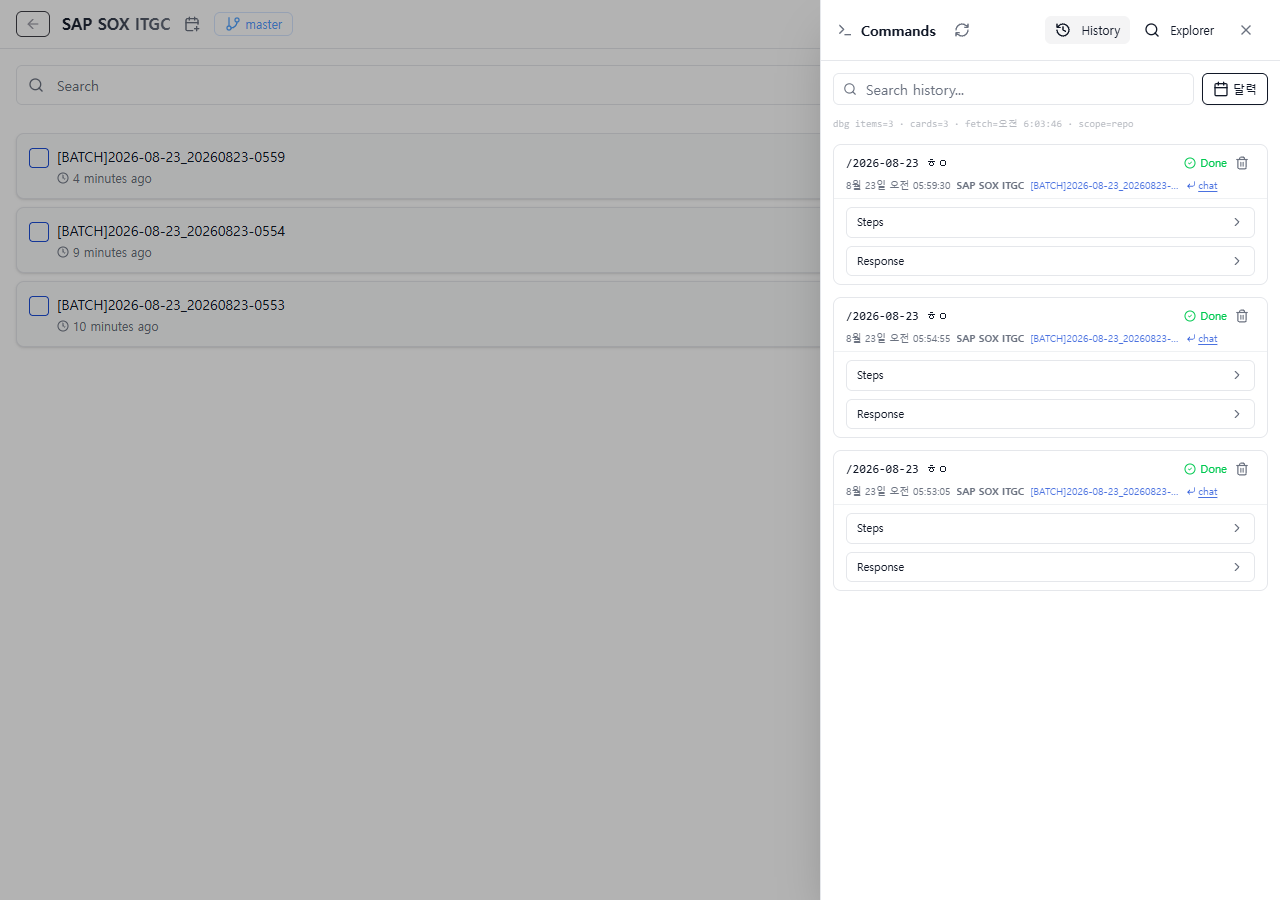
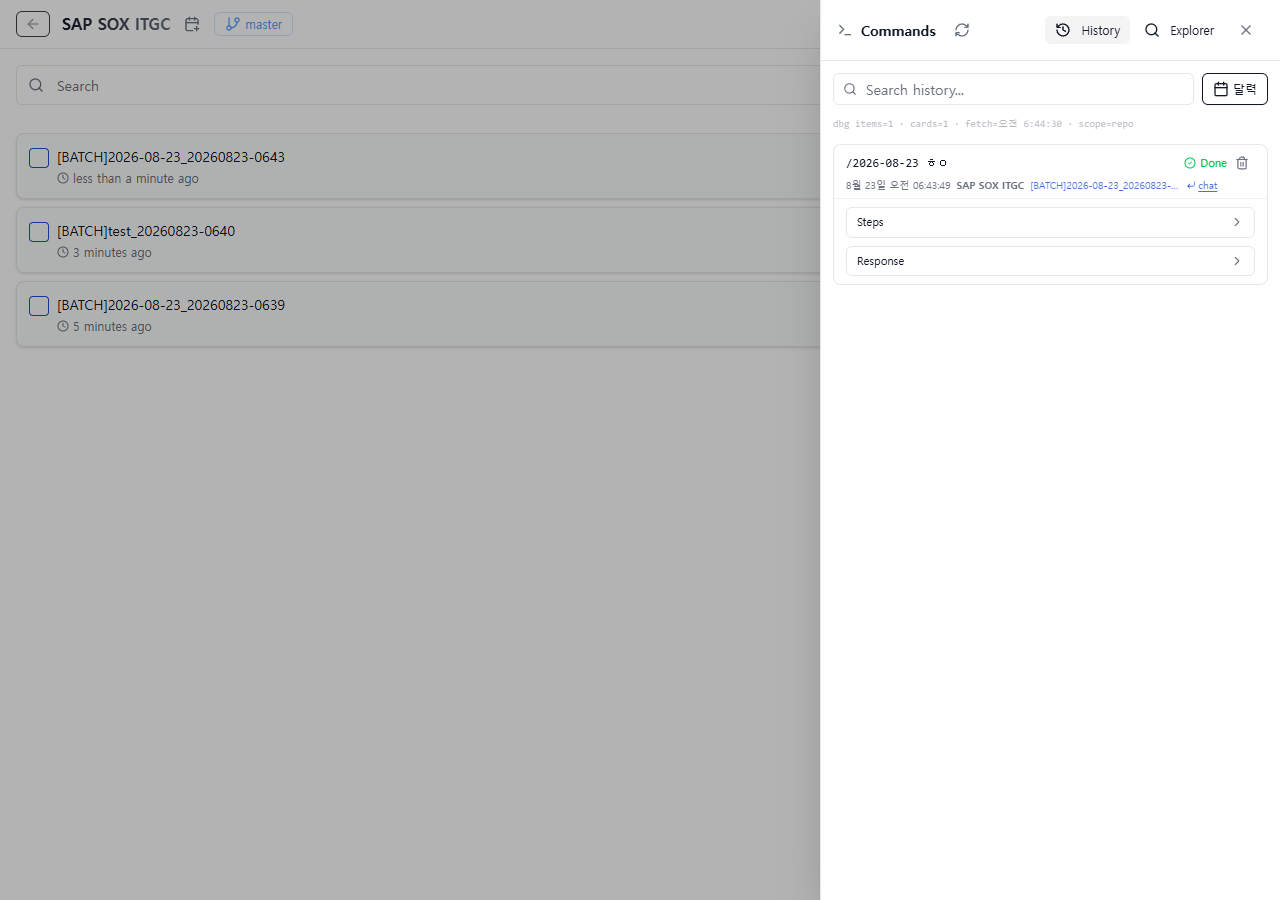
command history cards render immediately from view data like calendar, message queries fail fast without retry spam, status precedence fixed to file record

diff --git a/frontend/src/components/command/CommandsPanel.tsx b/frontend/src/components/command/CommandsPanel.tsx
@@ -1027,14 +1027,16 @@ export function CommandsPanel({ open, onClose, opcodeUrl, sessionID, directory, 
       },
       enabled: open && !!opcodeUrl && !!sessionId,
       staleTime: 30_000,
+      // 존재하지 않는 세션(외부 기록 등)은 500 스팸 없이 조용히 건너뛴다.
+      retry: false,
     })),
   })
 
-  const getMessagesFor = useCallback((sessionId: string, directory?: string): MessageWithParts[] | undefined => {
+  const getMessageQuery = useCallback((sessionId: string, directory?: string) => {
     const idx = sessionTargets.findIndex(
       (t) => t.sessionId === sessionId && (t.directory ?? '') === (directory ?? ''),
     )
-    return idx >= 0 ? (messageQueries[idx]?.data as MessageWithParts[] | undefined) : undefined
+    return idx >= 0 ? messageQueries[idx] : undefined
   }, [sessionTargets, messageQueries])
 
   const sessionMeta = useMemo(() => {
@@ -1061,7 +1063,10 @@ export function CommandsPanel({ open, onClose, opcodeUrl, sessionID, directory, 
     const ordered = [...(runList ?? [])].sort((a, b) => a.startedAt - b.startedAt)
     return ordered
       .map((run) => {
-        const msgs = getMessagesFor(run.sessionID, run.sessionMeta?.directory || run.directory)
+        const mq = getMessageQuery(run.sessionID, run.sessionMeta?.directory || run.directory)
+        const msgs = Array.isArray(mq?.data) ? (mq.data as MessageWithParts[]) : undefined
+        // 조회 실패(삭제된 세션 등)도 '로드 완료(빈 값)'로 취급해 스피너 무한 방지
+        const messagesLoaded = Array.isArray(msgs) || mq?.status === 'error'
         const meta = commands.find((c) => c.name === run.name)
         const segmented = segmentRun(msgs ?? [], run, meta?.oneshot)
         return {
@@ -1071,7 +1076,7 @@ export function CommandsPanel({ open, onClose, opcodeUrl, sessionID, directory, 
           startedAt: run.startedAt,
           sessionID: run.sessionID,
           messageID: run.messageID ?? segmented.triggerMessageID ?? undefined,
-          messagesLoaded: Array.isArray(msgs),
+          messagesLoaded,
           // 상태의 단일 진실은 파일 기록(run.status). 메시지 분석값은
           // 진행 중('started')일 때의 live 판정(running/error)으로만 사용한다.
           status: run.status === 'started'
@@ -1084,7 +1089,7 @@ export function CommandsPanel({ open, onClose, opcodeUrl, sessionID, directory, 
         }
       })
       .reverse()
-  }, [runList, getMessagesFor, commands])
+  }, [runList, getMessageQuery, commands])
 
   const segmentById = useMemo(() => new Map(segments.map((s) => [s.id, s])), [segments])
 
